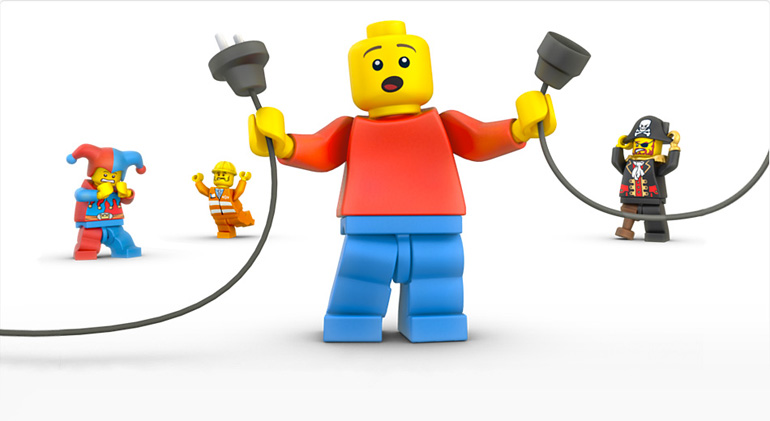
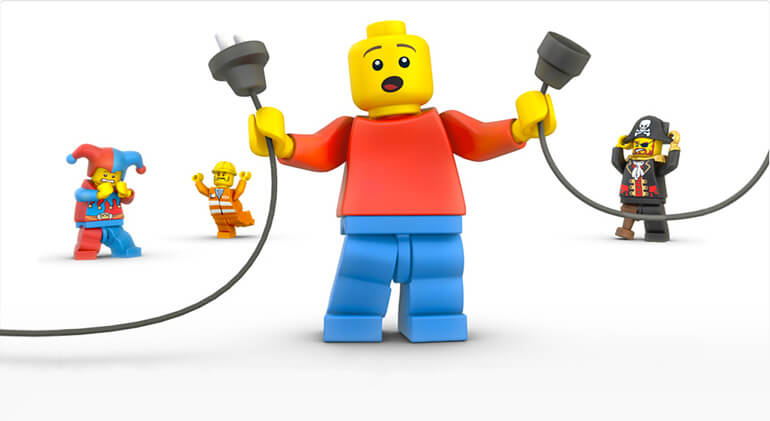
Removed imagemin from Gruntfile. Ran 404 image through tinypng

diff --git a/Gruntfile.js b/Gruntfile.js
@@ -207,7 +207,7 @@ module.exports = function (grunt) {
         src: [
           '<%= yeoman.dist %>/scripts/{,*/}*.js',
           '<%= yeoman.dist %>/styles/{,*/}*.css',
-          '<%= yeoman.dist %>/images/{,*/}*.{png,jpg,jpeg,gif,webp,svg}',
+          // '<%= yeoman.dist %>/images/{,*/}*.{png,jpg,jpeg,gif,webp,svg}',
           '<%= yeoman.dist %>/styles/fonts/*'
         ]
       }
